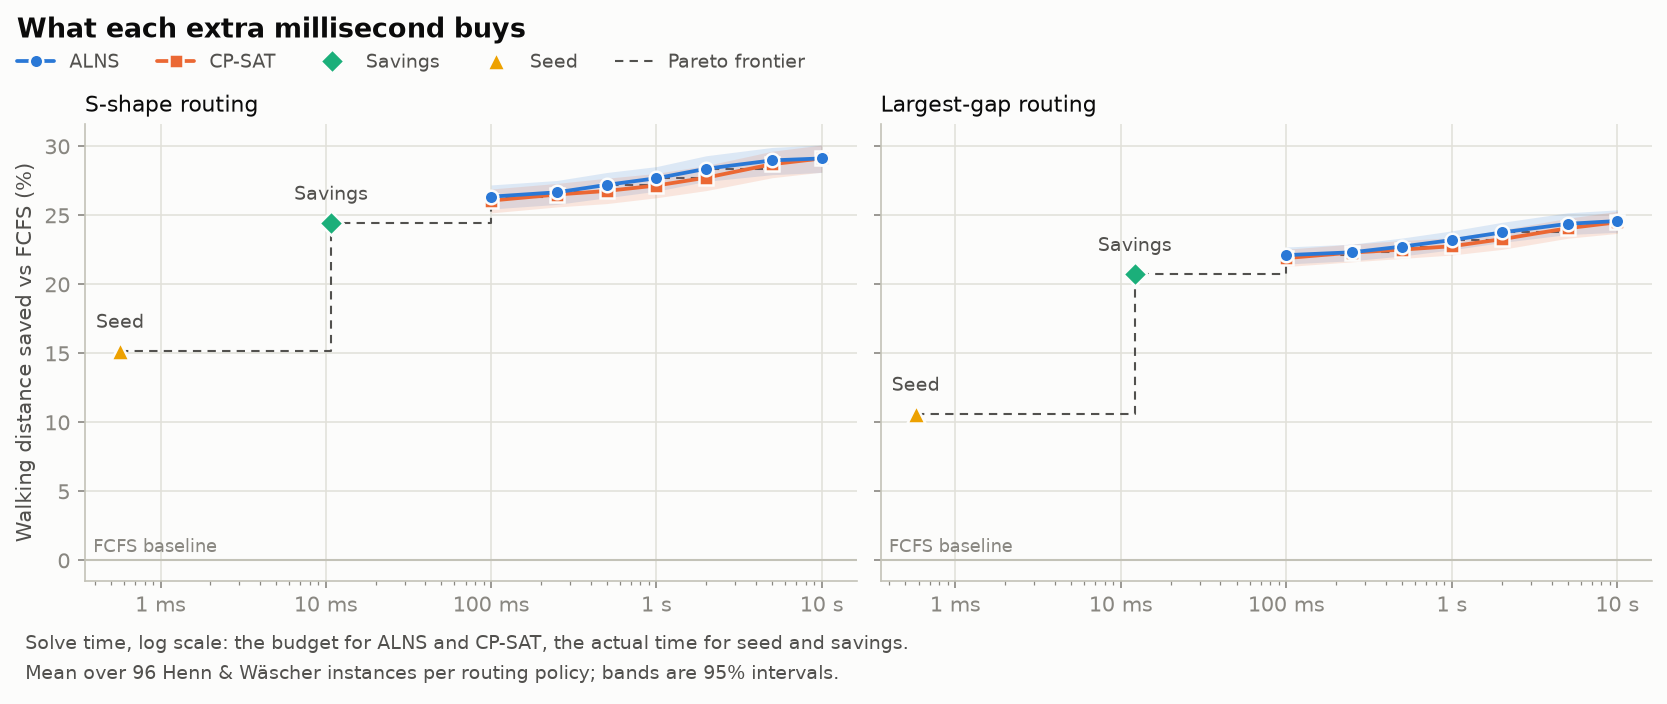
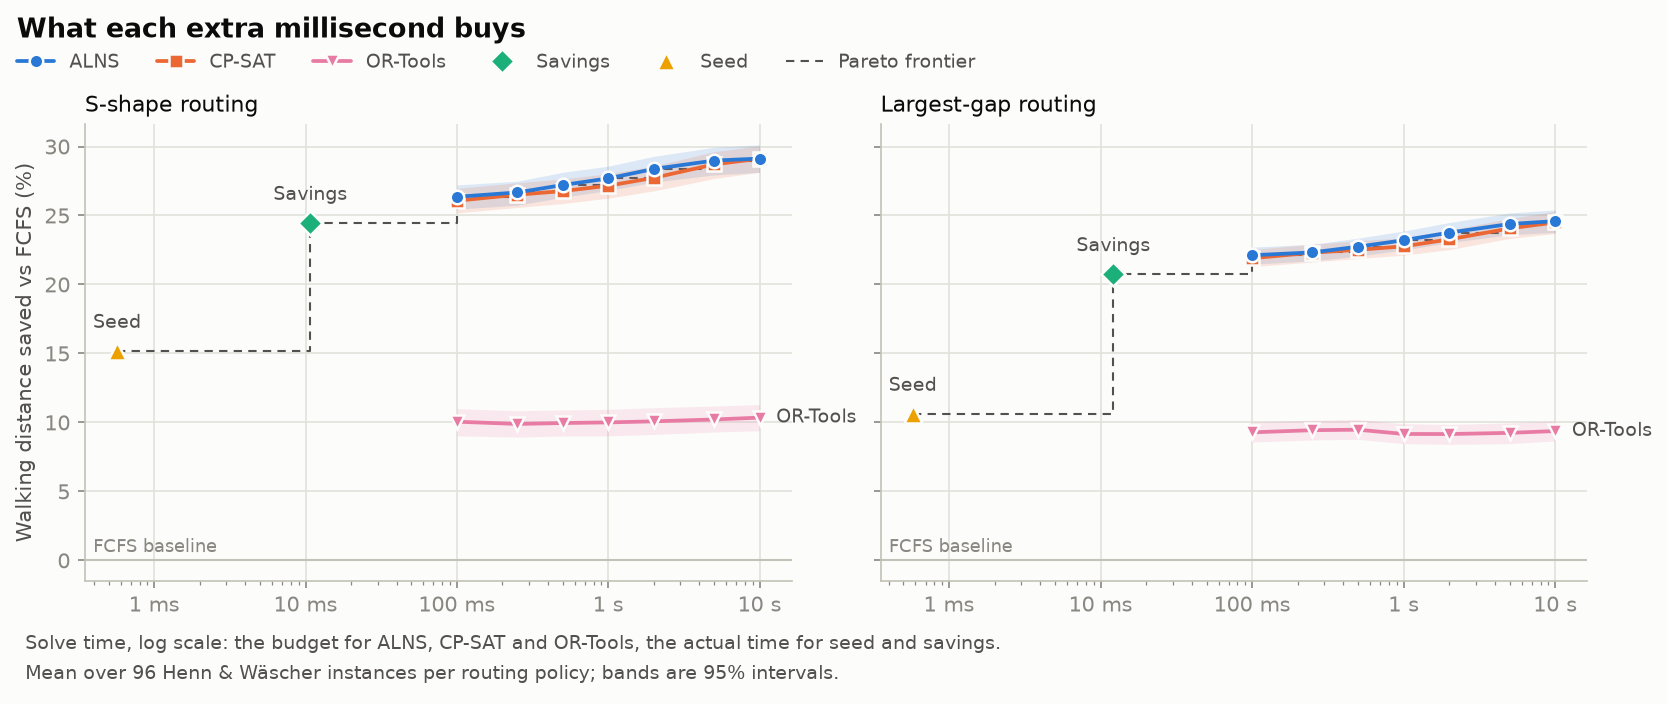
Add OR-Tools to the Pareto chart and write up the comparison

diff --git a/projects/01-fulfilment-optimisation/src/fulfilment_optimisation/report.py b/projects/01-fulfilment-optimisation/src/fulfilment_optimisation/report.py
@@ -8,12 +8,12 @@ Reads the budget sweep (``outputs/sweep_*.parquet``; the commands are in the REA
   dark variants;
 - ``docs/projects/p1-fulfilment-optimisation/results/pareto.md``: every plotted value as a table.
 
-ALNS and CP-SAT use whatever budget they're given, so they are curves over the budgets (x is the
-budget). FCFS, seed and savings don't use extra time, so each is one point at its median actual
-solve time. The y value is the mean saving over instances, with a 95% bootstrap interval. The
+ALNS, CP-SAT and OR-Tools use whatever budget they're given, so they are curves over the budgets
+(x is the budget). FCFS, seed and savings don't use extra time, so each is one point at its median
+actual solve time. The y value is the mean saving over instances, with a 95% bootstrap interval. The
 Pareto frontier joins the points no faster point beats.
 
-Colours are the dataviz reference palette's first four categorical slots (validated for adjacent
+Colours are the dataviz reference palette's first five categorical slots (validated for adjacent
 pairs in both modes), with a distinct marker per series so identity never rests on colour alone.
 """
 
@@ -40,10 +40,16 @@ from portfolio.plotting import save_fig
 log = get_logger(__name__)
 
 RESULTS_DOC = REPO_ROOT / "docs" / "projects" / "p1-fulfilment-optimisation" / "results"
-ANYTIME = ["alns", "cp_sat"]
+ANYTIME = ["alns", "cp_sat", "ortools"]
 CONSTRUCTIVE = ["savings", "seed"]
-LABELS = {"alns": "ALNS", "cp_sat": "CP-SAT", "savings": "Savings", "seed": "Seed"}
-MARKERS = {"alns": "o", "cp_sat": "s", "savings": "D", "seed": "^"}
+LABELS = {
+    "alns": "ALNS",
+    "cp_sat": "CP-SAT",
+    "ortools": "OR-Tools",
+    "savings": "Savings",
+    "seed": "Seed",
+}
+MARKERS = {"alns": "o", "cp_sat": "s", "ortools": "v", "savings": "D", "seed": "^"}
 ROUTERS = {"s_shape": "S-shape routing", "largest_gap": "Largest-gap routing"}
 
 
@@ -65,7 +71,13 @@ LIGHT = Theme(
     muted="#898781",
     grid="#e1e0d9",
     baseline="#c3c2b7",
-    series={"alns": "#2a78d6", "cp_sat": "#eb6834", "savings": "#1baf7a", "seed": "#eda100"},
+    series={
+        "alns": "#2a78d6",
+        "cp_sat": "#eb6834",
+        "savings": "#1baf7a",
+        "seed": "#eda100",
+        "ortools": "#e87ba4",
+    },
 )
 DARK = Theme(
     surface="#1a1a19",
@@ -74,7 +86,13 @@ DARK = Theme(
     muted="#898781",
     grid="#2c2c2a",
     baseline="#383835",
-    series={"alns": "#3987e5", "cp_sat": "#d95926", "savings": "#199e70", "seed": "#c98500"},
+    series={
+        "alns": "#3987e5",
+        "cp_sat": "#d95926",
+        "savings": "#199e70",
+        "seed": "#c98500",
+        "ortools": "#d55181",
+    },
 )
 
 
@@ -216,14 +234,17 @@ def plot(summary: pd.DataFrame, theme: Theme) -> plt.Figure:
                     fontsize=9,
                 )
 
-            # Direct end labels for the curves, unless they would collide (the legend covers it).
+            # Direct end labels for the curves, except those that would collide (the legend covers
+            # them).
             ends = {
                 s: data[data.solver == s].sort_values("x").iloc[-1]
                 for s in ANYTIME
                 if (data.solver == s).any()
             }
-            if len(ends) < 2 or abs(ends["alns"].saved - ends["cp_sat"].saved) > 1.2:
-                for solver, row in ends.items():
+            for solver, row in ends.items():
+                if all(
+                    abs(row.saved - other.saved) > 1.2 for s, other in ends.items() if s != solver
+                ):
                     ax.annotate(
                         LABELS[solver],
                         (row.x, row.saved),
@@ -266,9 +287,9 @@ def plot(summary: pd.DataFrame, theme: Theme) -> plt.Figure:
         )
         legend.get_title().set_color(theme.text)
         fig.supxlabel(
-            "Solve time, log scale: the budget for ALNS and CP-SAT, the actual time for seed and "
-            f"savings.\nMean over {n} Henn & Wäscher instances per routing policy; bands are 95% "
-            "intervals.",
+            "Solve time, log scale: the budget for ALNS, CP-SAT and OR-Tools, the actual time for "
+            f"seed and savings.\nMean over {n} Henn & Wäscher instances per routing policy; "
+            "bands are 95% intervals.",
             x=0.01,
             ha="left",
             fontsize=9,
@@ -284,8 +305,8 @@ def table(summary: pd.DataFrame) -> str:
         "",
         "Generated by `python -m fulfilment_optimisation.report`; the table view of "
         "`reports/figures/pareto.png`. Mean % walking distance saved against FCFS over the "
-        "Henn & Wäscher instances, with a 95% bootstrap interval. For ALNS and CP-SAT the time is "
-        "the budget; for seed and savings it's the median actual solve time.",
+        "Henn & Wäscher instances, with a 95% bootstrap interval. For ALNS, CP-SAT and OR-Tools "
+        "the time is the budget; for seed and savings it's the median actual solve time.",
         "",
     ]
     for router in [r for r in ROUTERS if r in set(summary.router)]:

diff --git a/docs/projects/p1-fulfilment-optimisation/results/ortools_baseline.md b/docs/projects/p1-fulfilment-optimisation/results/ortools_baseline.md
@@ -1,0 +1,79 @@
+# OR-Tools routing baseline
+
+Google OR-Tools' vehicle routing solver, run as one more solver through the same benchmark harness
+and time budgets as the others (`solvers/ortools_routing.py`, registered as `ortools`). Each
+vehicle is one picker tour with capacity in items, so the orders on a vehicle are a batch. Its
+batches are re-scored with our routers, so every number here uses the same cost function as the
+other solvers. The run's numbers come from `outputs/sweep_ortools.parquet` and
+`outputs/ortools_pick_nodes.parquet` (commands below), compared with the existing
+`sweep_constructive.parquet`, `sweep_alns.parquet` and `sweep_cp_sat.parquet`, on the 96
+Henn & Wäscher instances. The curve is on the [Pareto chart](pareto.md).
+
+## Modelling choice: order nodes
+
+Both models in the task were built and run; the chart uses **order nodes**.
+
+- **Pick nodes** (one node per pick, all of an order's picks on one vehicle) is the faithful model:
+  a vehicle's cost is a travelling-salesman tour through its picks, which is what optimal
+  (Ratliff & Rosenthal) routing computes. OR-Tools does find those tours: on small instances its
+  tour lengths match the exact router (`tests/test_solvers_ortools.py`). But it can't re-batch.
+  Its local search moves one node, or a chain of consecutive nodes, at a time, and moving one pick
+  of a multi-pick order breaks the same-vehicle constraint. Started from savings, it returned the
+  savings batches in all 384 runs (96 instances x S-shape and largest gap x 1 s and 10 s), so its
+  result is exactly savings at 50-1,000x the time. Without the warm start, the default
+  first-solution heuristic found no feasible solution within 1 s on a 40-order instance.
+  It wasn't too slow to run at 80 orders; it just never changes the batching.
+- **Order nodes** (one node per order at its centre of gravity: mean aisle and mean position,
+  rounded) is the common practitioner approximation, and the one that actually searches over
+  batchings, so it's the curve on the chart.
+
+Both start from the savings solution and run guided local search to the deadline, with integer arc
+costs (distances x 10). The solver returns what OR-Tools returns, re-scored. It doesn't fall back
+to the savings start when that scores better, since that would turn the baseline into savings.
+
+## Results
+
+Mean % walking distance saved against FCFS (from [pareto.md](pareto.md)):
+
+| Solver | S-shape | Largest gap |
+|---|---:|---:|
+| OR-Tools, order nodes, 100 ms | 10.1 | 9.3 |
+| OR-Tools, order nodes, 1 s | 10.0 | 9.2 |
+| OR-Tools, order nodes, 10 s | 10.3 | 9.4 |
+| OR-Tools, pick nodes, 1 s and 10 s | 24.4 (= savings) | 20.7 (= savings) |
+| Seed (0.6 ms) | 15.2 | 10.6 |
+| Savings (11-12 ms) | 24.4 | 20.7 |
+| ALNS, 1 s | 27.7 | 23.2 |
+| CP-SAT, 1 s | 27.2 | 22.8 |
+
+- **Our solvers beat it by a wide margin.** With order nodes, OR-Tools' batches are 19% longer
+  than savings' under S-shape and 15% longer under largest gap (mean per instance, 1 s), worse than
+  savings on all 96 instances at 1 s, and worse than seed batching on 83% (S-shape) and 62%
+  (largest gap) of them. Across all budgets it beat savings in 5 of 1,344 runs, all on two
+  20-order instances at budgets of 500 ms or less (and lost the gain with more time). ALNS at
+  100 ms saves 2.4-2.6x as much distance as OR-Tools at 10 s.
+- **More time doesn't help.** The curve is flat from 100 ms to 10 s (10.1 to 10.3% under S-shape).
+  OR-Tools does improve its own objective: on three 80-order instances it cut it by 30-45% from
+  the savings start. But the centre-of-gravity distance isn't the tour length. An order's picks
+  spread over several aisles, so two orders with nearby centres can need quite different aisles.
+  Minimising the proxy moves away from good batches.
+- **It loses most where batching matters most.** The gap to savings grows with instance size
+  (S-shape, 1 s: 12.8% at 20 orders, 23.5% at 80) and capacity (15.3% at 45 items, 23.6% at 75):
+  the more orders share a tour, the more the proxy's error compounds.
+- **Where it doesn't lose:** with pick nodes it ties savings exactly, because it keeps savings'
+  batches. Its own tours are as good as optimal routing on small batches, so as a router it's
+  sound; it's as a batching method that the routing formulation fails.
+
+## Reproduce
+
+Development instances only (Henn & Wäscher). About 16 minutes on 6 workers.
+
+```bash
+cd projects/01-fulfilment-optimisation
+B="PYTHONPATH=src python -m fulfilment_optimisation.benchmark"
+eval $B --solvers ortools --routers s_shape largest_gap --time-limits 0.1 0.25 0.5 1 2 5 10 \
+    --workers 6 --output sweep_ortools.parquet
+eval $B --solvers ortools --routers s_shape largest_gap --time-limits 1 10 \
+    --param ortools.model=pick_nodes --workers 6 --output ortools_pick_nodes.parquet
+PYTHONPATH=src python -m fulfilment_optimisation.report  # adds the curve to the chart and table
+```

diff --git a/docs/projects/p1-fulfilment-optimisation/results/pareto.md b/docs/projects/p1-fulfilment-optimisation/results/pareto.md
@@ -1,27 +1,34 @@
 # Pareto data: distance saved vs FCFS by solve time
 
-Generated by `python -m fulfilment_optimisation.report`; the table view of `reports/figures/pareto.png`. Mean % walking distance saved against FCFS over the Henn & Wäscher instances, with a 95% bootstrap interval. For ALNS and CP-SAT the time is the budget; for seed and savings it's the median actual solve time.
+Generated by `python -m fulfilment_optimisation.report`; the table view of `reports/figures/pareto.png`. Mean % walking distance saved against FCFS over the Henn & Wäscher instances, with a 95% bootstrap interval. For ALNS, CP-SAT and OR-Tools the time is the budget; for seed and savings it's the median actual solve time.
 
 ## S-shape routing
 
 | Solver | Time | Saved vs FCFS % (95% CI) | Pareto frontier |
 |---|---:|---|:---:|
 | ALNS | 100 ms | 26.4 (25.5 to 27.2) | ✓ |
-| ALNS | 250 ms | 26.7 (25.8 to 27.5) | ✓ |
+| ALNS | 250 ms | 26.7 (25.7 to 27.5) | ✓ |
 | ALNS | 500 ms | 27.2 (26.3 to 28.1) | ✓ |
-| ALNS | 1 s | 27.7 (26.7 to 28.5) | ✓ |
-| ALNS | 2 s | 28.4 (27.5 to 29.3) | ✓ |
+| ALNS | 1 s | 27.7 (26.8 to 28.6) | ✓ |
+| ALNS | 2 s | 28.4 (27.4 to 29.3) | ✓ |
 | ALNS | 5 s | 29.0 (27.9 to 29.9) | ✓ |
 | ALNS | 10 s | 29.1 (28.1 to 30.1) | ✓ |
-| CP-SAT | 100 ms | 26.1 (25.2 to 26.9) |  |
-| CP-SAT | 250 ms | 26.5 (25.6 to 27.3) |  |
-| CP-SAT | 500 ms | 26.8 (25.9 to 27.7) |  |
+| CP-SAT | 100 ms | 26.1 (25.2 to 27.0) |  |
+| CP-SAT | 250 ms | 26.5 (25.6 to 27.4) |  |
+| CP-SAT | 500 ms | 26.8 (25.9 to 27.6) |  |
 | CP-SAT | 1 s | 27.2 (26.3 to 28.0) |  |
 | CP-SAT | 2 s | 27.7 (26.8 to 28.6) |  |
 | CP-SAT | 5 s | 28.7 (27.7 to 29.6) |  |
-| CP-SAT | 10 s | 29.1 (28.1 to 30.1) |  |
-| Savings | 10.8 ms | 24.4 (23.4 to 25.5) | ✓ |
-| Seed | 0.568 ms | 15.2 (14.0 to 16.2) | ✓ |
+| CP-SAT | 10 s | 29.1 (28.1 to 30.0) |  |
+| OR-Tools | 100 ms | 10.1 (9.0 to 11.0) |  |
+| OR-Tools | 250 ms | 9.9 (8.9 to 10.8) |  |
+| OR-Tools | 500 ms | 10.0 (9.0 to 10.9) |  |
+| OR-Tools | 1 s | 10.0 (9.0 to 10.9) |  |
+| OR-Tools | 2 s | 10.1 (9.1 to 11.1) |  |
+| OR-Tools | 5 s | 10.2 (9.3 to 11.2) |  |
+| OR-Tools | 10 s | 10.3 (9.4 to 11.3) |  |
+| Savings | 10.8 ms | 24.4 (23.4 to 25.4) | ✓ |
+| Seed | 0.568 ms | 15.2 (14.0 to 16.3) | ✓ |
 
 ## Largest-gap routing
 
@@ -41,6 +48,13 @@ Generated by `python -m fulfilment_optimisation.report`; the table view of `repo
 | CP-SAT | 2 s | 23.3 (22.5 to 23.9) |  |
 | CP-SAT | 5 s | 24.1 (23.3 to 24.8) |  |
 | CP-SAT | 10 s | 24.5 (23.7 to 25.3) |  |
+| OR-Tools | 100 ms | 9.3 (8.6 to 10.0) |  |
+| OR-Tools | 250 ms | 9.4 (8.7 to 10.2) |  |
+| OR-Tools | 500 ms | 9.5 (8.8 to 10.2) |  |
+| OR-Tools | 1 s | 9.2 (8.5 to 9.9) |  |
+| OR-Tools | 2 s | 9.2 (8.4 to 9.9) |  |
+| OR-Tools | 5 s | 9.2 (8.5 to 10.0) |  |
+| OR-Tools | 10 s | 9.4 (8.7 to 10.1) |  |
 | Savings | 12.2 ms | 20.7 (19.9 to 21.5) | ✓ |
 | Seed | 0.576 ms | 10.6 (9.7 to 11.4) | ✓ |
 
